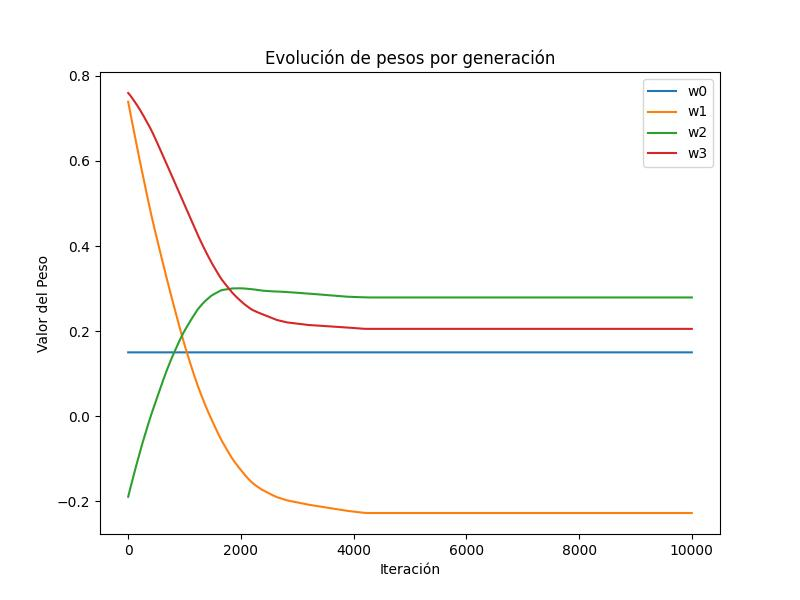
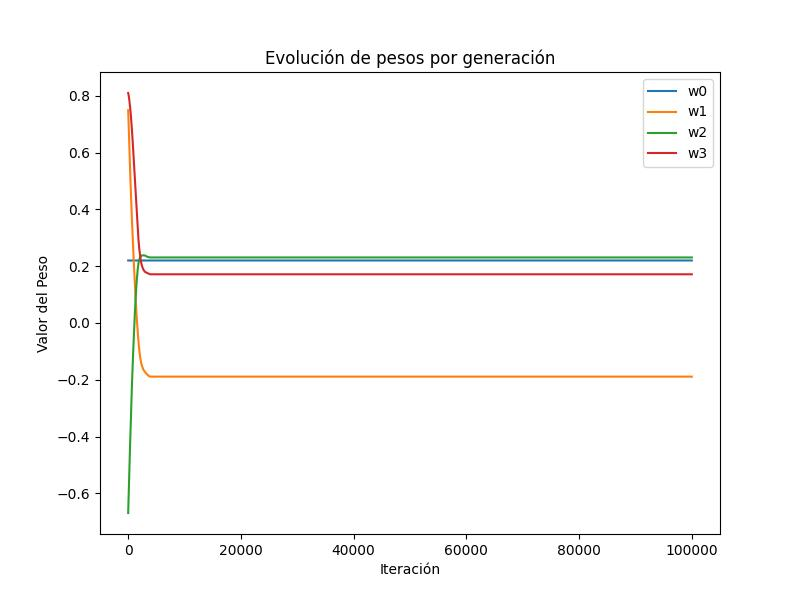
lol

diff --git a/logic/graphics.py b/logic/graphics.py
@@ -1,27 +1,27 @@
 import matplotlib.pyplot as plt
 import numpy as np
 
-def graphic(weights, err):
+def plot_weights_evolution(weights, save_filename="weights-evolution.jpg"):
     fig, axes = plt.subplots(figsize=(8, 6))
-    we = np.array(weights)
-    iterations = list(range(1, len(we) + 1))
-    for i in range(we.shape[1]):
-        axes.plot(iterations, we[:, i], label=f'w{i}', linestyle="-")
+    iterations = list(range(1, len(weights) + 1))
+    weights_array = np.array(weights)
+    for i in range(weights_array.shape[1]):
+        axes.plot(iterations, weights_array[:, i], label=f'w{i}', linestyle="-")
     axes.set_title('Evolución de pesos por generación')
-    plt.xlabel('Iteración')
-    plt.ylabel('Valor del Peso')
-    plt.legend()
-    plt.savefig("weights-evolution.jpg")
+    axes.set_xlabel('Iteración')
+    axes.set_ylabel('Valor del Peso')
+    axes.legend()
+    plt.savefig(save_filename)
     plt.show()
     plt.close(fig)
-    #siguiente grafica 
-    errors = np.array(err)
+
+def plot_error_evolution(errors, save_filename="error-evolution.jpg"):
     fig, axes = plt.subplots(figsize=(8, 6))
-    for i in range(we.shape[1]):
-        axes.plot(iterations, errors, linestyle="-")
+    iterations = list(range(1, len(errors) + 1))
+    axes.plot(iterations, errors, linestyle="-" ,c="red")
     axes.set_title('Evolución del error')
     axes.set_xlabel('Iteración')
     axes.set_ylabel('Error')
-    plt.savefig("error-evolution.jpg")
+    plt.savefig(save_filename)
     plt.show()
     plt.close(fig)

diff --git a/logic/training.py b/logic/training.py
@@ -1,6 +1,6 @@
 import numpy as np
 import tkinter as tk
-from logic.graphics import graphic
+from logic.graphics import plot_error_evolution, plot_weights_evolution
 
 class Perceptron:
     def __init__(self,eta, weight, X, Y):
@@ -27,7 +27,8 @@ def initialization(data):
 def cycle(neuron, epoch):
     for i in range(epoch):
         training(neuron)
-    graphic(weights, err)
+    plot_weights_evolution(weights)
+    plot_error_evolution(err)
     err.clear()
     weights.clear()
 

diff --git a/views/view.py b/views/view.py
@@ -48,6 +48,7 @@ ttk.Entry(mainframe, textvariable=eta).grid(column=2, row=1, sticky=W)
 
 epoch = IntVar()
 ttk.Label(mainframe, text="Número de iteraciones:").grid(column=1, row=3, sticky=W)
+epoch.set("100000")
 ttk.Entry(mainframe, textvariable=epoch).grid(column=2, row=3, sticky=W)
 
 ttk.Button(mainframe, text="Entrenar", command=save_data).grid(column=3, row=4, sticky=W)
